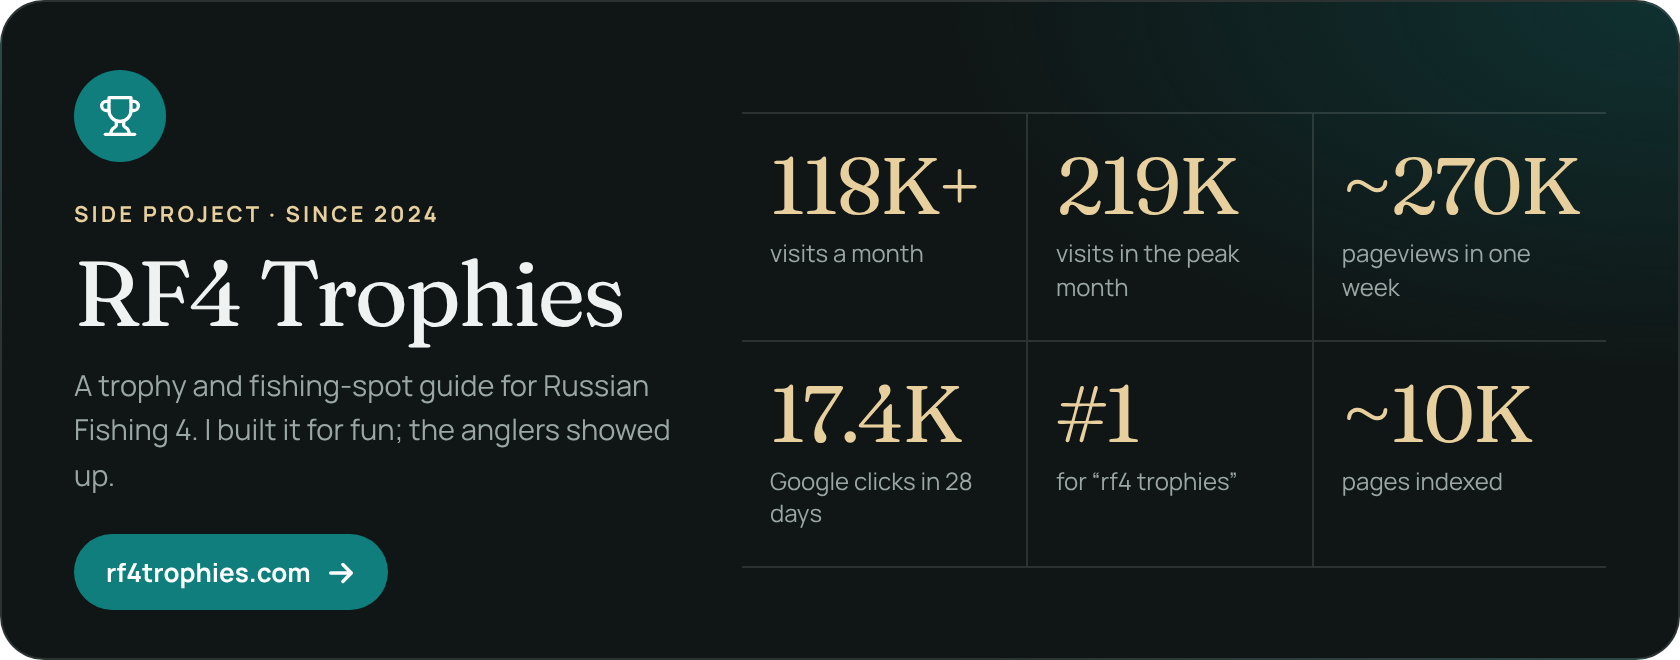
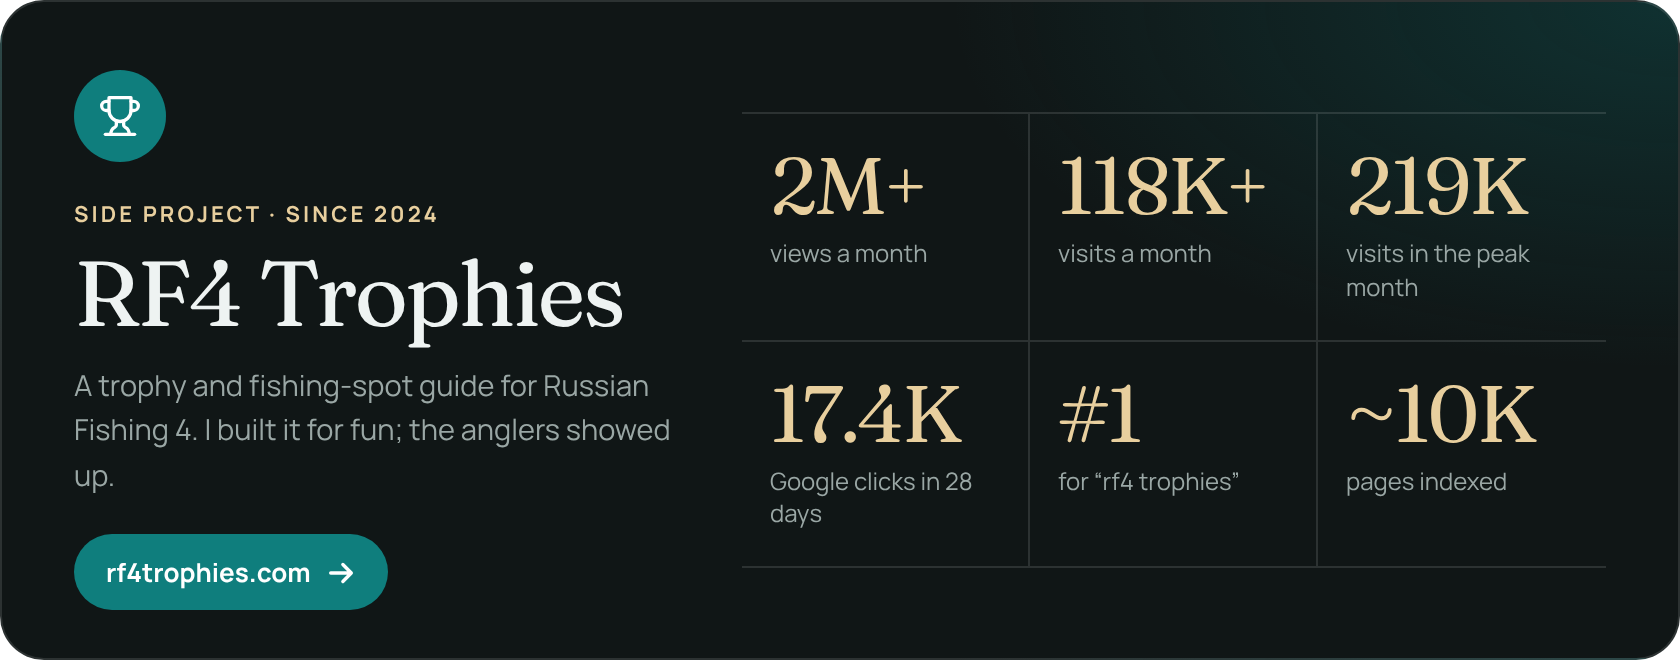
RF4 Trophies: 2M+ views a month; link project cards to their pages
Each project card now opens its page on abdulhkim.com/work/, plus a
link to the full project list.

diff --git a/README.md b/README.md
@@ -20,7 +20,7 @@
   <tr>
     <td align="center"><img src="assets/icons/rocket.svg" width="18" height="18" alt=""><br><sub><b>Founder</b><br>QoutPlus · 2023</sub></td>
     <td align="center"><img src="assets/icons/building-2.svg" width="18" height="18" alt=""><br><sub><b>Co-founder</b><br>Tasheel Tech · 2026</sub></td>
-    <td align="center"><img src="assets/icons/trophy.svg" width="18" height="18" alt=""><br><sub><b>#1 on Google</b><br>for “rf4 trophies”</sub></td>
+    <td align="center"><img src="assets/icons/trophy.svg" width="18" height="18" alt=""><br><sub><b>2M+ views a month</b><br>on RF4 Trophies</sub></td>
     <td align="center"><img src="assets/icons/map-pin.svg" width="18" height="18" alt=""><br><sub><b>Oran, Algeria</b><br>since Dec 2024</sub></td>
     <td align="center"><img src="assets/icons/languages.svg" width="18" height="18" alt=""><br><sub><b>Arabic & English</b><br>both, daily</sub></td>
   </tr>
@@ -29,21 +29,23 @@
 <p><picture><source media="(prefers-color-scheme: light)" srcset="assets/cards/h-work-light.png"><img src="assets/cards/h-work-dark.png" alt="Selected work: Things I've shipped" width="100%"></picture></p>
 
 <p align="center">
-  <a href="https://rf4trophies.com"><picture><source media="(prefers-color-scheme: light)" srcset="assets/cards/rf4-light.png"><img src="assets/cards/rf4-dark.png" alt="RF4 Trophies: a trophy and fishing-spot guide for Russian Fishing 4. 118K+ visits a month, 219K in the peak month, about 270K pageviews in one week, 17.4K Google clicks in 28 days, #1 for rf4 trophies, about 10K pages indexed" width="100%"></picture></a>
+  <a href="https://abdulhkim.com/work/rf4-trophies/"><picture><source media="(prefers-color-scheme: light)" srcset="assets/cards/rf4-light.png"><img src="assets/cards/rf4-dark.png" alt="RF4 Trophies: a trophy and fishing-spot guide for Russian Fishing 4. 2M+ views a month, 118K+ visits a month, 219K in the peak month, 17.4K Google clicks in 28 days, #1 for rf4 trophies, about 10K pages indexed" width="100%"></picture></a>
 </p>
 
 <p align="center">
-  <a href="https://menupasha.sy"><picture><source media="(prefers-color-scheme: light)" srcset="assets/cards/menupasha-light.png"><img src="assets/cards/menupasha-dark.png" alt="MenuPasha: restaurant and café platform with digital menus, orders, branches and reporting" width="49%"></picture></a>
-  <a href="https://apps.odoo.com/apps/modules/17.0/autozatca"><picture><source media="(prefers-color-scheme: light)" srcset="assets/cards/autozatca-light.png"><img src="assets/cards/autozatca-dark.png" alt="AutoZATCA: free ZATCA e-invoicing module for Odoo 17" width="49%"></picture></a>
+  <a href="https://abdulhkim.com/work/menupasha/"><picture><source media="(prefers-color-scheme: light)" srcset="assets/cards/menupasha-light.png"><img src="assets/cards/menupasha-dark.png" alt="MenuPasha: restaurant and café platform with digital menus, orders, branches and reporting" width="49%"></picture></a>
+  <a href="https://abdulhkim.com/work/autozatca/"><picture><source media="(prefers-color-scheme: light)" srcset="assets/cards/autozatca-light.png"><img src="assets/cards/autozatca-dark.png" alt="AutoZATCA: free ZATCA e-invoicing module for Odoo 17" width="49%"></picture></a>
 </p>
 <p align="center">
-  <a href="https://tabibon.com"><picture><source media="(prefers-color-scheme: light)" srcset="assets/cards/tabibon-light.png"><img src="assets/cards/tabibon-dark.png" alt="Tabibon: doctor booking app" width="49%"></picture></a>
-  <a href="https://shariii.com"><picture><source media="(prefers-color-scheme: light)" srcset="assets/cards/shariii-light.png"><img src="assets/cards/shariii-dark.png" alt="Shariii: classified ads marketplace with web and mobile apps" width="49%"></picture></a>
+  <a href="https://abdulhkim.com/work/tabibon/"><picture><source media="(prefers-color-scheme: light)" srcset="assets/cards/tabibon-light.png"><img src="assets/cards/tabibon-dark.png" alt="Tabibon: doctor booking app" width="49%"></picture></a>
+  <a href="https://abdulhkim.com/work/shariii/"><picture><source media="(prefers-color-scheme: light)" srcset="assets/cards/shariii-light.png"><img src="assets/cards/shariii-dark.png" alt="Shariii: classified ads marketplace with web and mobile apps" width="49%"></picture></a>
 </p>
 <p align="center">
-  <a href="mailto:hello@abdulhkim.com"><picture><source media="(prefers-color-scheme: light)" srcset="assets/cards/tadbeer-light.png"><img src="assets/cards/tadbeer-dark.png" alt="Tadbeer: POS system with a customer loyalty app" width="49%"></picture></a>
-  <a href="mailto:hello@abdulhkim.com"><picture><source media="(prefers-color-scheme: light)" srcset="assets/cards/systems-light.png"><img src="assets/cards/systems-dark.png" alt="Custom CRM and ERP systems and integrations" width="49%"></picture></a>
+  <a href="https://abdulhkim.com/work/tadbeer/"><picture><source media="(prefers-color-scheme: light)" srcset="assets/cards/tadbeer-light.png"><img src="assets/cards/tadbeer-dark.png" alt="Tadbeer: POS system with a customer loyalty app" width="49%"></picture></a>
+  <a href="https://abdulhkim.com/work/custom-crm-erp/"><picture><source media="(prefers-color-scheme: light)" srcset="assets/cards/systems-light.png"><img src="assets/cards/systems-dark.png" alt="Custom CRM and ERP systems and integrations" width="49%"></picture></a>
 </p>
+
+<p align="center"><a href="https://abdulhkim.com/work/"><b>See every project on abdulhkim.com →</b></a></p>
 
 <p><picture><source media="(prefers-color-scheme: light)" srcset="assets/cards/h-services-light.png"><img src="assets/cards/h-services-dark.png" alt="What I do" width="100%"></picture></p>
 
@@ -55,7 +57,7 @@
 |:-:|---|---|---|
 | <img src="assets/icons/building-2.svg" width="22" height="22" alt=""> | **Co-founder** | [**Tasheel Tech**](https://tasheeltech.sy): a digital product studio for websites, mobile apps and business systems | Apr 2026 – now |
 | <img src="assets/icons/rocket.svg" width="22" height="22" alt=""> | **Founder** | [**QoutPlus**](https://qoutplus.com): web design and development, SEO, apps and ad management | Mar 2023 – now |
-| <img src="assets/icons/fish.svg" width="22" height="22" alt=""> | **Creator** | [**RF4 Trophies**](https://rf4trophies.com): the Russian Fishing 4 trophy guide above | Aug 2024 – now |
+| <img src="assets/icons/fish.svg" width="22" height="22" alt=""> | **Creator** | [**RF4 Trophies**](https://rf4trophies.com): the Russian Fishing 4 trophy guide above, 2M+ views a month | Aug 2024 – now |
 | <img src="assets/icons/briefcase.svg" width="22" height="22" alt=""> | **IT Manager** <sub>(part-time)</sub> | [**CNR WOOD**](https://cnrwood.com): built automation tools and migrated the production software | Jul 2021 – Nov 2024 |
 
 <p><picture><source media="(prefers-color-scheme: light)" srcset="assets/cards/h-stack-light.png"><img src="assets/cards/h-stack-dark.png" alt="Tools of the trade" width="100%"></picture></p>
